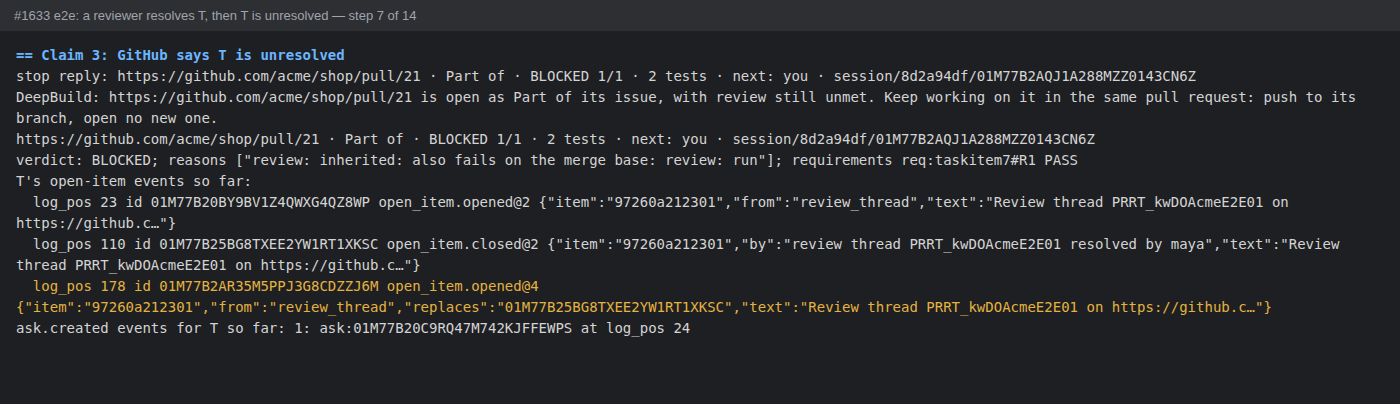
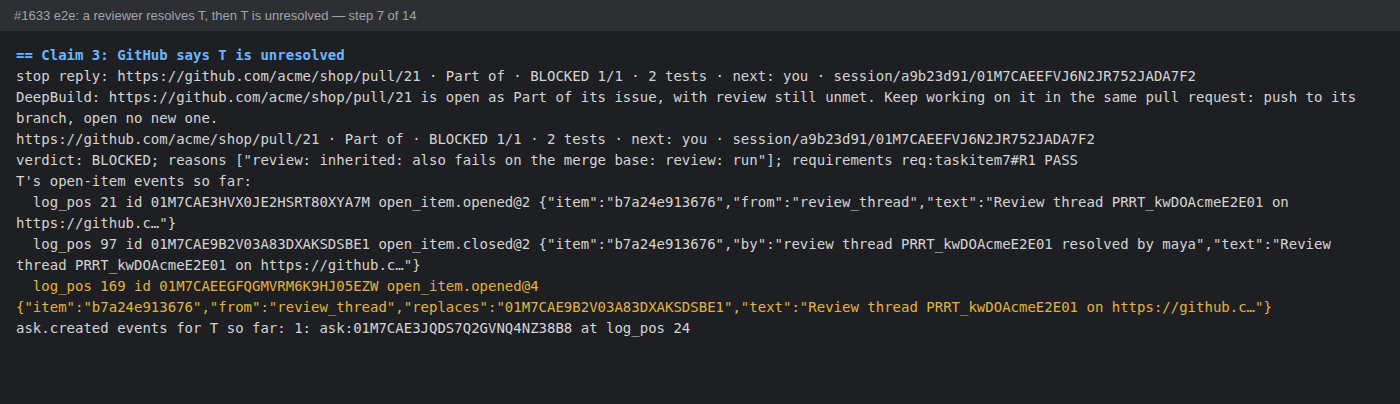
#1633: e2e, screenshots and the 16 tests repeated on the branch with main merged in; screenshots checked again by separate agents

diff --git a/docs/evidence/1633/e2e.md b/docs/evidence/1633/e2e.md
@@ -1,6 +1,6 @@
 # Manual e2e for #1633
 
-The run, on d48117c9 (this PR's head), 2026-11-11:
+The run, on 2eb06e04 (PR #2416's branch with main merged in), 2026-11-13. It repeats the 2026-11-11 run on d48117c9, with the same driver and the same results:
 
 - Node 24.22.0, Linux aarch64 (Spark).
 - The real hub runs as a process, with the real deep-hook (an `env-plants` debug build) for every Claude Code hook.
@@ -74,3 +74,11 @@ The fix: the driver now prints the full reply, each event's ID, the verdict's ou
 - The refusal's `”.` punctuation.
 - "next: you" in the stop reply, which comes from the inherited `review` check.
 - The driver's deliberate "…" shortening of each item's text.
+
+**Round 4, on the 2eb06e04 run.** The transcripts and screenshots here are from this run. Two fresh agents again each checked one scenario, seeing only the images and the expected behaviour. Both passed every expectation, with nothing contradicted and no personal data on screen. Their remarks are the ones above, plus these, none of them part of this change:
+- "Closes ALLOWED" is the hook's answer to the `gh pr edit` command. The recorded GitHub answers keep the PR body, so claim 4's reply still says "Part of".
+- No verdict is printed between the answer and the next claim.
+- The first opening and the closings are `@2`, which is what main writes; only a reopening is `@4`.
+- "no decision saved" means the answer applies to that one ask.
+- The event lists are the driver's filter of the record for T, not the raw log.
+
